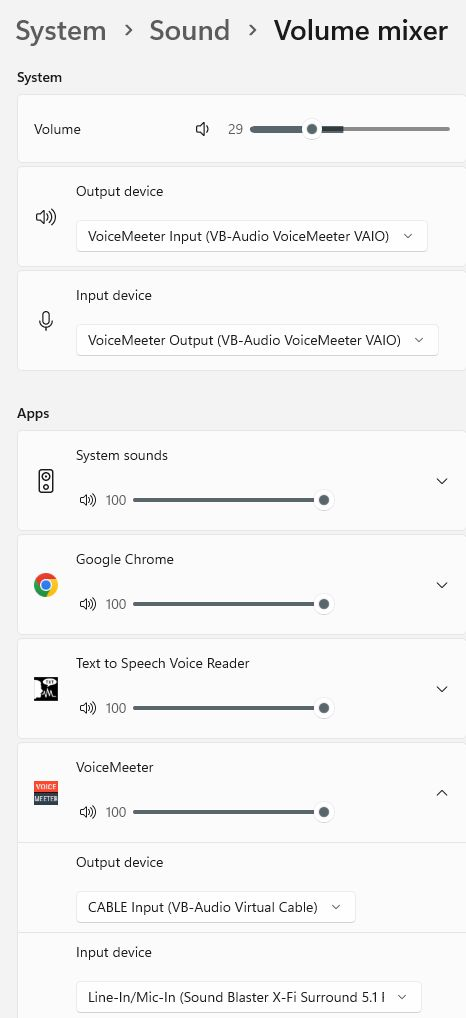
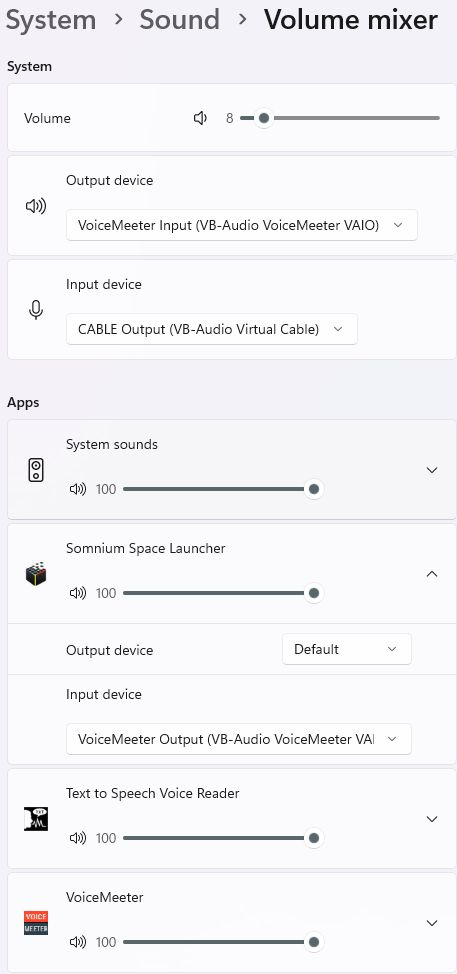
reconfigure for SimHub

diff --git a/Windows/WinAudio.htm b/Windows/WinAudio.htm
@@ -18,15 +18,18 @@ table.ct th, td { text-align:center; }
 </i><a href=#VM><code>Voicemeeter Banana</code></a>,<br>
  <code>Somnium Space</code> <i>worked with their</i>
 <code>VB-Audio CABLE</code>.<br>
-It quit because of Windows sound complexities and problematic configuration.</p>
+It quit because of Windows sound terminolgy<br> and problematic configuration.</p>
 
 <h4><a href=../pedals/WindowsAudio.htm>Windows audio basics</a></h4>
 
 <h3>Windows 11 sound routing</h3>
-Windows sound output does not play default input;&nbsp some application must route it.<br>
-Except for defaults, Windows 11 configures sound devices for
-<a href="https://answers.microsoft.com/en-us/windows/forum/all/what-is-exclusive-mode-and-what-does-it-do/26922597-f6c8-4080-a675-199e37f37a0b">exclusive access</a>.<br>
-Windows settings could, but fails to warn when multiple programs are misconfigured<br> to use the same device having exclusive access set.<br>
+Windows sound output does not play default input;<br> some application[s] must route it.<br>
+Except for defaults, Windows 11 configures sound devices<br> for
+<a href="https://answers.microsoft.com/en-us/windows/forum/all/what-is-exclusive-mode-and-what-does-it-do/26922597-f6c8-4080-a675-199e37f37a0b">exclusive access</a>,
+potentially reducing latency.<br>
+Windows settings could, <i>but fails to</i> warn<br>
+when multiple programs are misconfigured<br>
+to use the same device having exclusive access set.<br>
 Consequently, any not-default input (e.g. <a href=#TTS>text-to-speech</a>) output<br>
 must be somehow split to feed both e.g.
 <a href="../XR/VR1.html#space">Somnium Space VR</a> and default sound.<br>
@@ -38,10 +41,11 @@ The <code>v</code> to the right of each App exposes Output and Input device sele
  works with <code>Somnium Space</code><br>
 via <a href="https://vb-audio.com/Cable/"><code>CABLE (VB-Audio Virtual Cable)</code></a>:
 <br><div align=center><img src=image/Properties.jpg></div><br>
-...but <code>Somnium Space</code> did not recognize <a href=#VM><code>VoiceMeeter</a> Output (VB-Audio VoiceMeeter VAIO)</code> device.<br>
+...but <code>Somnium Space</code> did not detect <a href=#VM>VoiceMeeter</a> Output<br>
+<code>(VB-Audio VoiceMeeter VAIO)</code> virtual device.<br>
 
 
-In twisted M$ minds, "<code>Don't Allow</code>" means that <i>this device is currently allowed</i>.<br>
+In twisted M$ minds, "<code>Don't Allow</code>" means<br> that <i>this device is currently allowed</i>.<br>
   Pressing "<code>Don't Allow</code>" <i>here</i> is equivalent to (right click) <b>Disable</b><br>
  in Sound control panel <code>Playback</code> or <code>Recording</code>, so baffling redundancy...<br>
 "Allow applications to take exclusive control of this device" is still available<br>
@@ -50,7 +54,7 @@ Connecting Somnium Space exclusively to <code>VB-Audio CABLE Out</code><br>
  no longer seems to work, but Somnium Space 2D hangs...
 
 <h4>Test script for <a href=#TTS>Text to Speech Voice Reader</a></h4>
-"<code>. .</code>" between lines reduces voicing last word of previous line when playing a line...
+"<code>. .</code>" between lines reduces voicing previous word when playing a line...
 <pre>
 . Hello.
 . .
@@ -80,7 +84,8 @@ Thanks.
 ..
 </pre>
 <hr>
-<a name=#TTS><b>Text to Speech Voice Reader</b></a> stalls and hangs if connected to a disabled sound input;<br>
+<a name=#TTS><b>Text to Speech Voice Reader</b></a> stalls and hangs<br>
+ if connected to a disabled sound input;&nbsp
 ask me how I know...<br>
 
 <h3>Windows default input</h3>
@@ -98,29 +103,46 @@ Making VoiceMeeter the default audio devices.<br>
 Official <a href="https://voicemeeter.com/setup-voicemeeter-with-windows-11-disable-mic-privacy/">VoiceMeeter in Windows 11</a><br>
 
 <h4>VoiceMeeter patches</h4>
-Reconfigured VoiceMeeter AUX as default Windows sound output device<br> and VoiceMeeter VAIO as Windows sound default input.<br>
+Reconfigured VoiceMeeter VAIO as default Windows sound output device<br>
+and VB-Audio Cable as Windows sound default input.<br>
 <table class="ct" border=1 width=500>
-<tr> <th>source</th> <th>input</th> <th>X-Fi</th> <th>CABLE In</th> <th>Denon</th> <th>Main OUT<br>default in</th> <th>Aux OUT</th></tr>
-<tr> <td></td> <td>INPUT 1</td> <td></td> <td></td> <td></td> <td></td> <td></td> </tr>
-<tr> <td></td> <td>INPUT 2</td> <td></td> <td></td> <td></td> <td></td> <td></td> </tr>
-<tr> <td></td> <td>INPUT 3</td> <td></td> <td></td> <td></td> <td></td> <td></td> </tr>
-<tr> <td>Text to Speech</td> <td>VAIO</td> <td>x</td> <td>x</td> <td>x</td> <td>x</td> <td></td> </tr>
-<tr> <td>default output</td> <td>AUX</td> <td>x</td> <td></td> <td>x</td> <td></td> <td></td> </tr>
-</table>
-Translated:
-Text to Speech outputs to VAIO (default input), used e.g. by Somnium,<br>
- but also passed to X-Fi for headphones and Denon for surround.<br>
-AUX is default output, also passed to X-Fi and Denon (but not Somnium).<br>
+<tr> <th>source /<br>destination</th> <th>input</th> <th>CABLE In<br>default In</th>
+	 <th>CABLE Out</th> <th>A1<br>X-Fi</th> <th>A2<br>Denon</th>
+	 <th>A3<br>RealTek</th> <th>B1<br>Somnium</th> <th>B2</th></tr>
+<tr> <td>Text to Speech</td> <td>Cable In</td> <td>x</td> <td></td>
+	 <td></td> <td></td> <td></td> <td></td> <td></td> </tr>
+<tr> <td>Cable Out</td> <td>INPUT 1</td> <td></td> <td>x</td>
+	 <td>x</td> <td>x</td> <td></td> <td>x</td> <td></td> </tr>
+<tr> <td></td> <td>INPUT 2</td> <td></td> <td></td> <td></td>
+	 <td></td> <td></td> <td></td> <td></td> </tr>
+<tr> <td></td> <td>INPUT 3</td> <td></td> <td></td> <td></td>
+	 <td></td> <td></td> <td></td> <td></td> </tr>
+<tr> <td>default output</td> <td>VAIO</td> <td></td> <td></td>
+	 <td>x</td> <td>x</td> <td></td> <td></td> <td></td> </tr>
+<tr> <td>SimHub</td> <td>AUX</td> <td></td> <td></td> <td></td>
+	 <td></td> <td>x</td> <td></td> <td></td> </tr>
+</table><dl>
+<dt>Translated:
+Text to Speech outputs to VB-Cable (default input),
+<dd>used e.g. by Somnium via B1 virtual device,
+<dd>but also passed to X-Fi for headphones and Denon for surround.
+<dt>VAIO is Windows default output, also passed to X-Fi and Denon (but not Somnium).
+<dt>SimHub tactile goes to AUX, which gets routed to RealTek motherboard audio
 
-<br><b>Exclusive mode disabled for VoiceMeeter Aux Input</b><br>
-<li> because Default Playback Device<br>
+<dt><b>Exclusive mode disabled for VoiceMeeter VAIO Input</b>
+<dd><ul><li> because Default Playback Device
 <li>X-Fi volume control is no longer effective...
 <li>Windows volume slider is bypassed;&nbsp  <a href="https://voicemeeter.com/volume-control-how-to-change-the-volume-of-your-main-output-without-the-mouse/">VoiceMeeter volume control HowTo</a>
-<li> VB-Audio CABLE Input attached to VoiceMeeter A2 output for a third source device
+<li>VB-Audio CABLE patched to VoiceMeeter Input 1 for a third Playback device</ul></dl>
 <details><summary>click for images</summary>
 <img src=image/VB-Audio.jpg><br><br>
 <img src=image/hook.jpg><br><br>
-<img src=image/mixer.jpg>
+<table><tr><td>
+VB-Audio manages to have its CABLE input labelled Output;<br>
+Somnium is the only app needing non-default device:</td><td>
+ Similarly VB-Audio outputs are labelled Inputs:</td></tr><tr><td>
+<img src=image/mixer.jpg></td><td style="vertical-align: top;">
+<img src=image/Sound.png></td></tr></table>
 </details>
 
 </td></tr><tr><td align=center>
